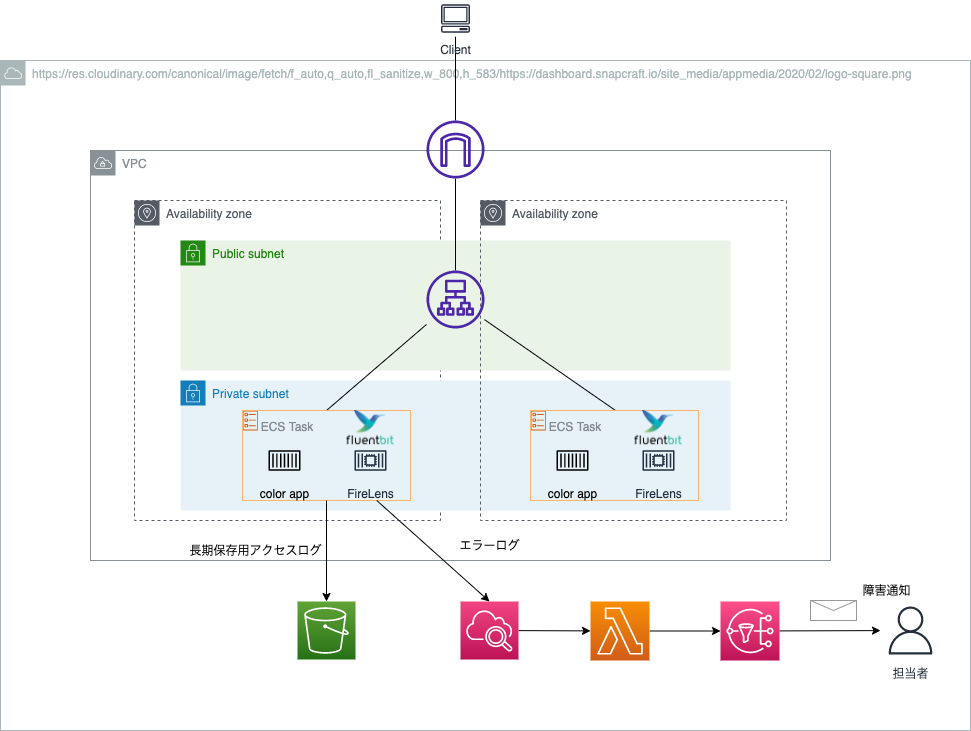
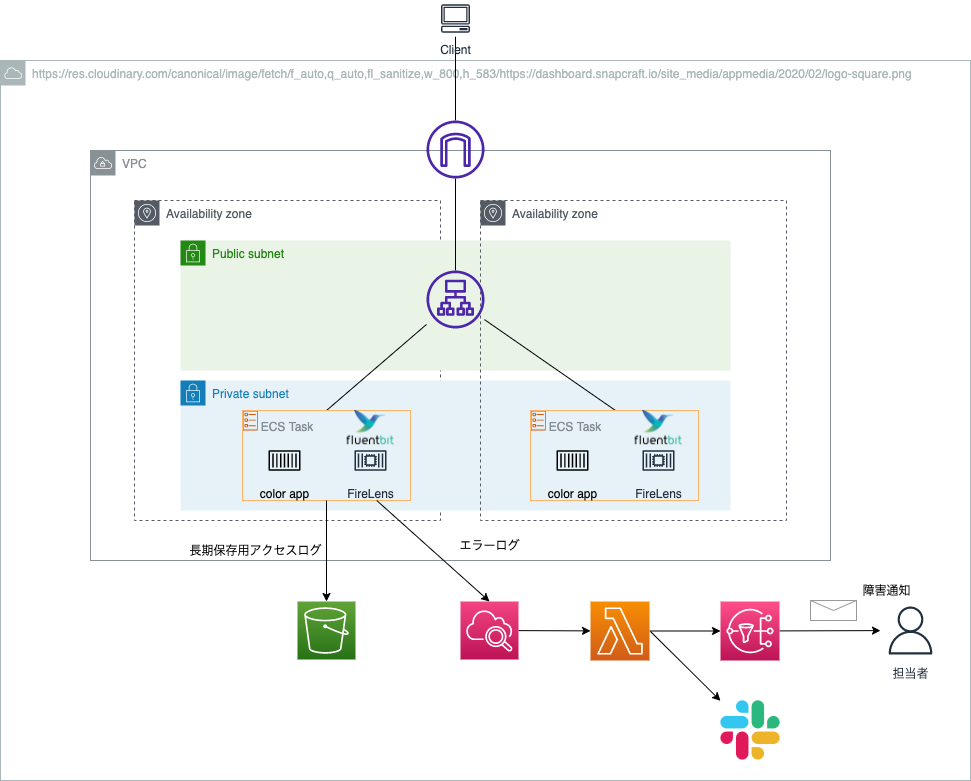
chore: READMEの構成図などを変更

Changed region(s): [[0.0927, 0.1505, 0.9578, 0.9932], [0.0, 0.0, 0.9578, 0.1204]]

diff --git a/README.md b/README.md
@@ -51,6 +51,7 @@
 
 - zenn.devで記事公開
   - https://zenn.dev/bun913/articles/c25765744352a4
+  - https://zenn.dev/bun913/articles/7c6c3a1ed53087
 - こだわりポイント
   -  ログ収集に極力お金はかけない
   -  エラーログはCloudWatchLogsへ
